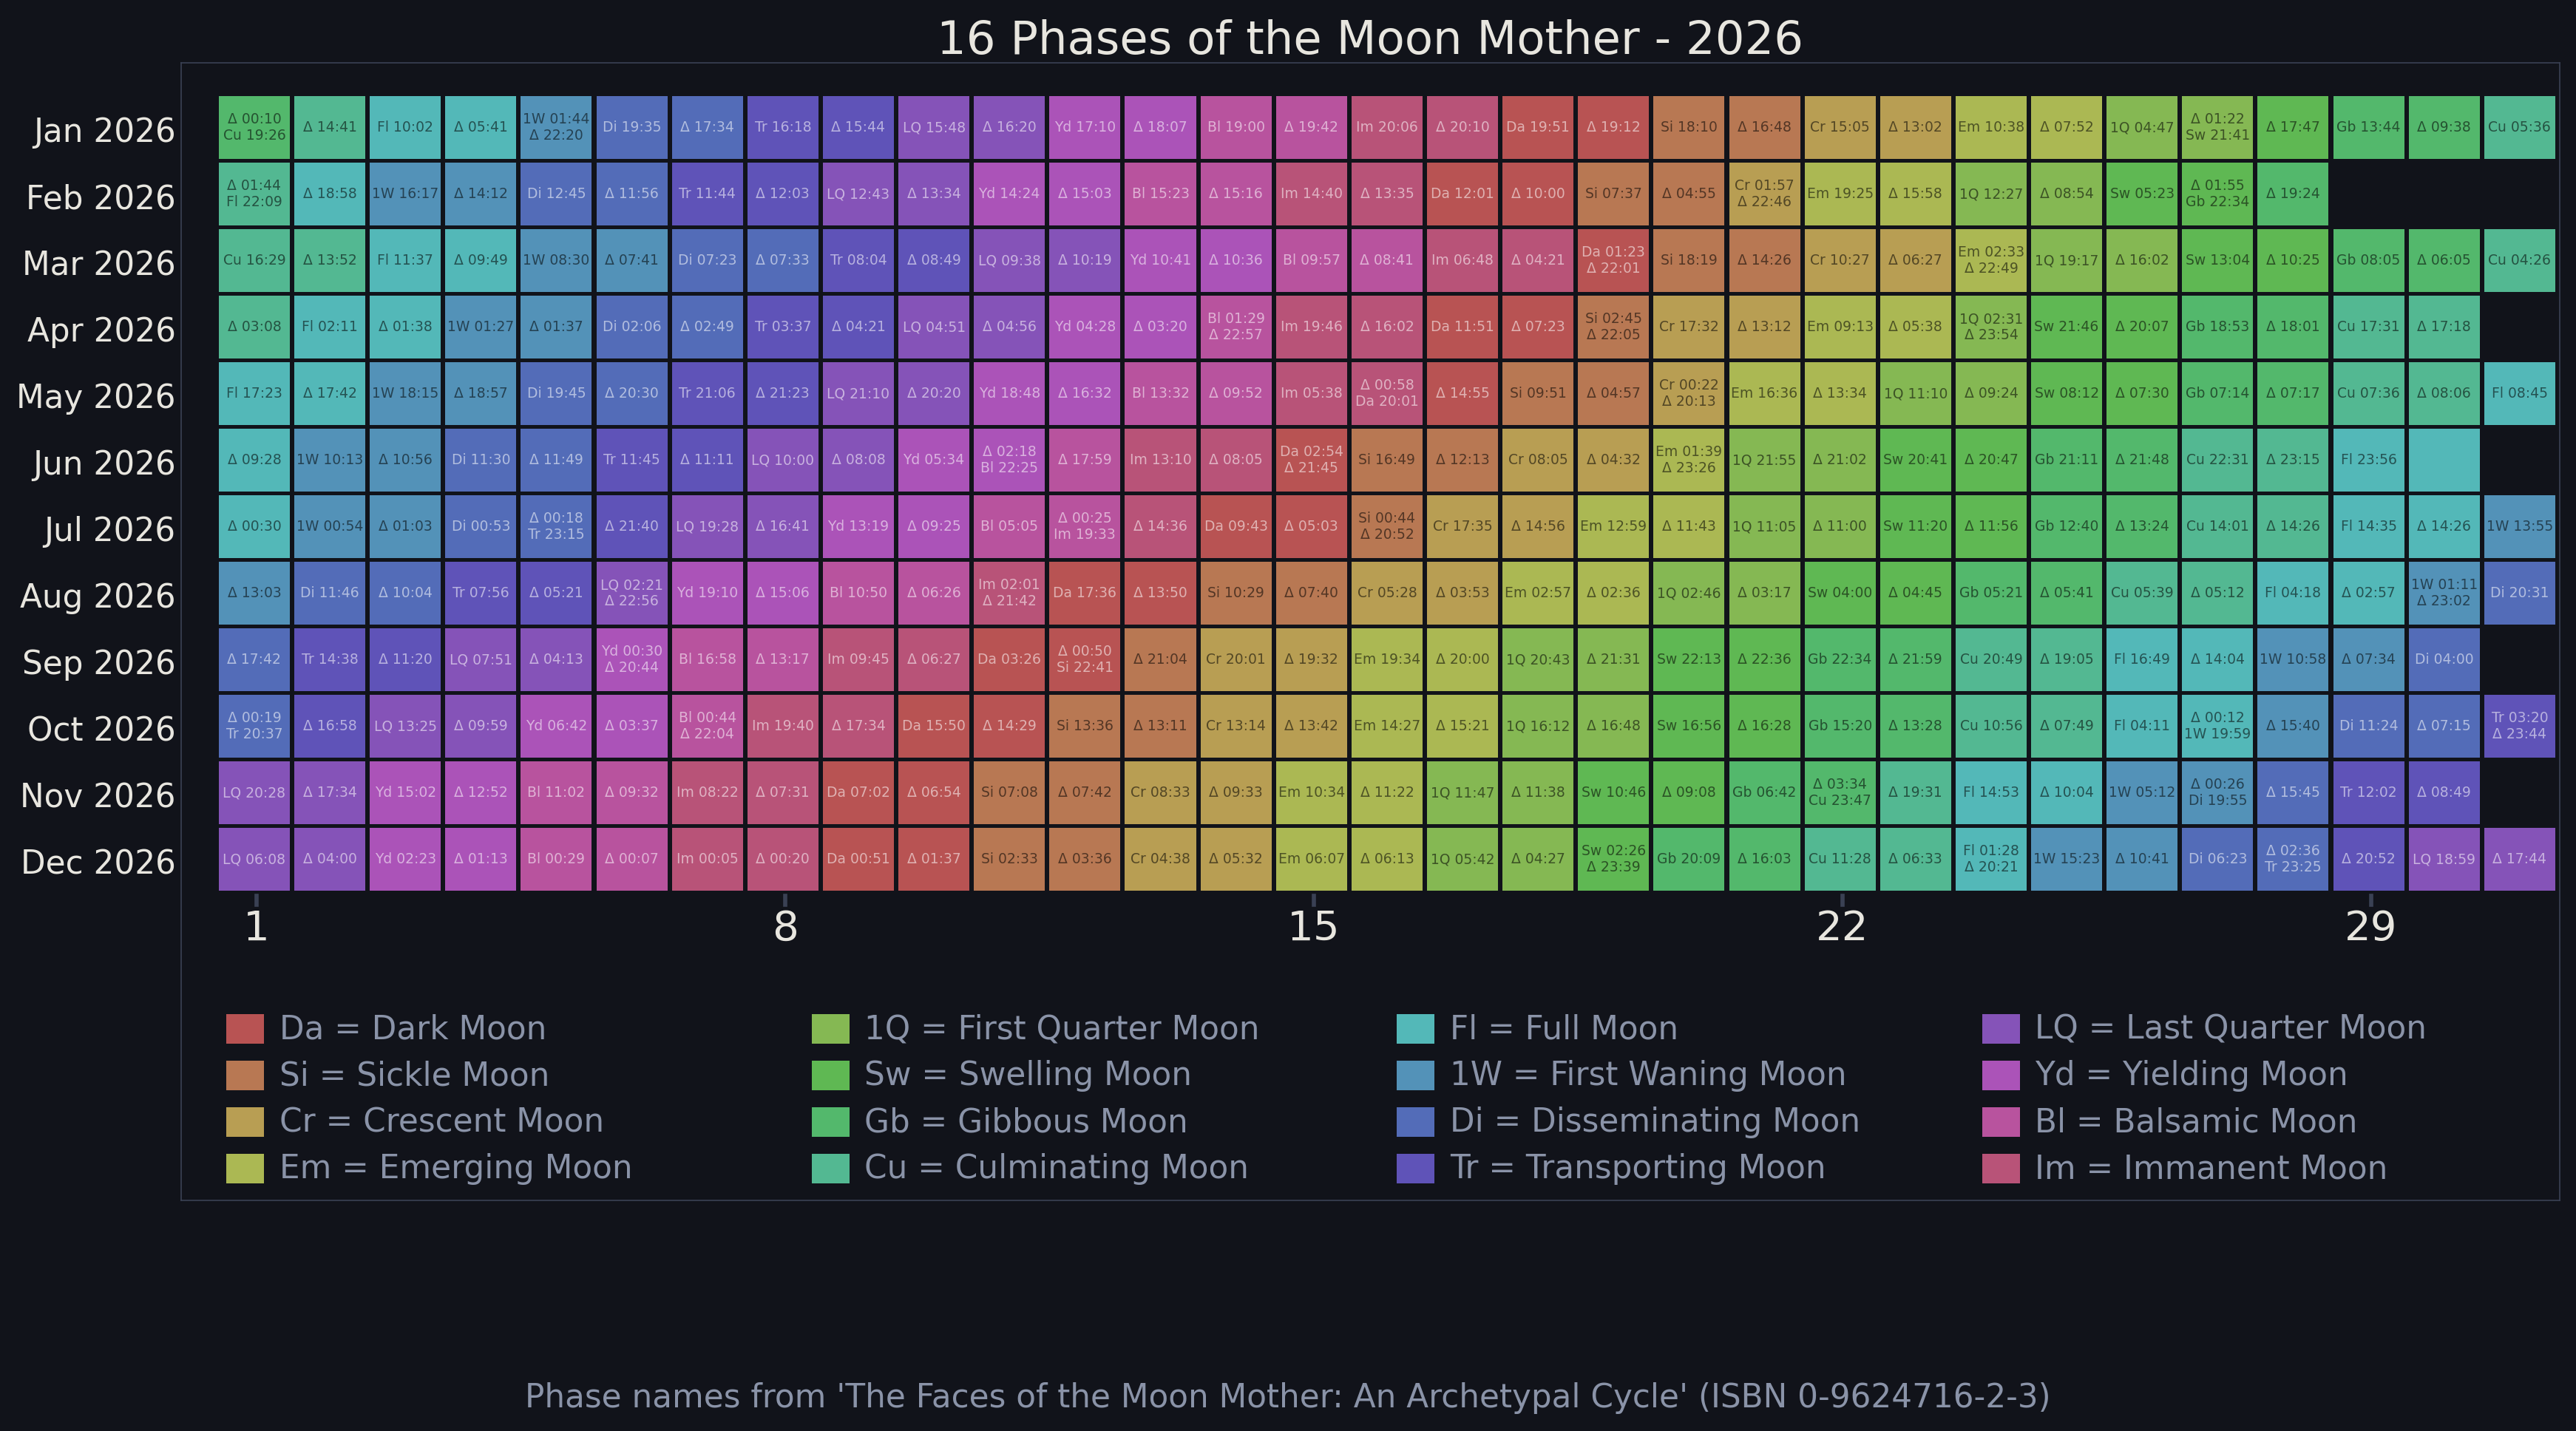
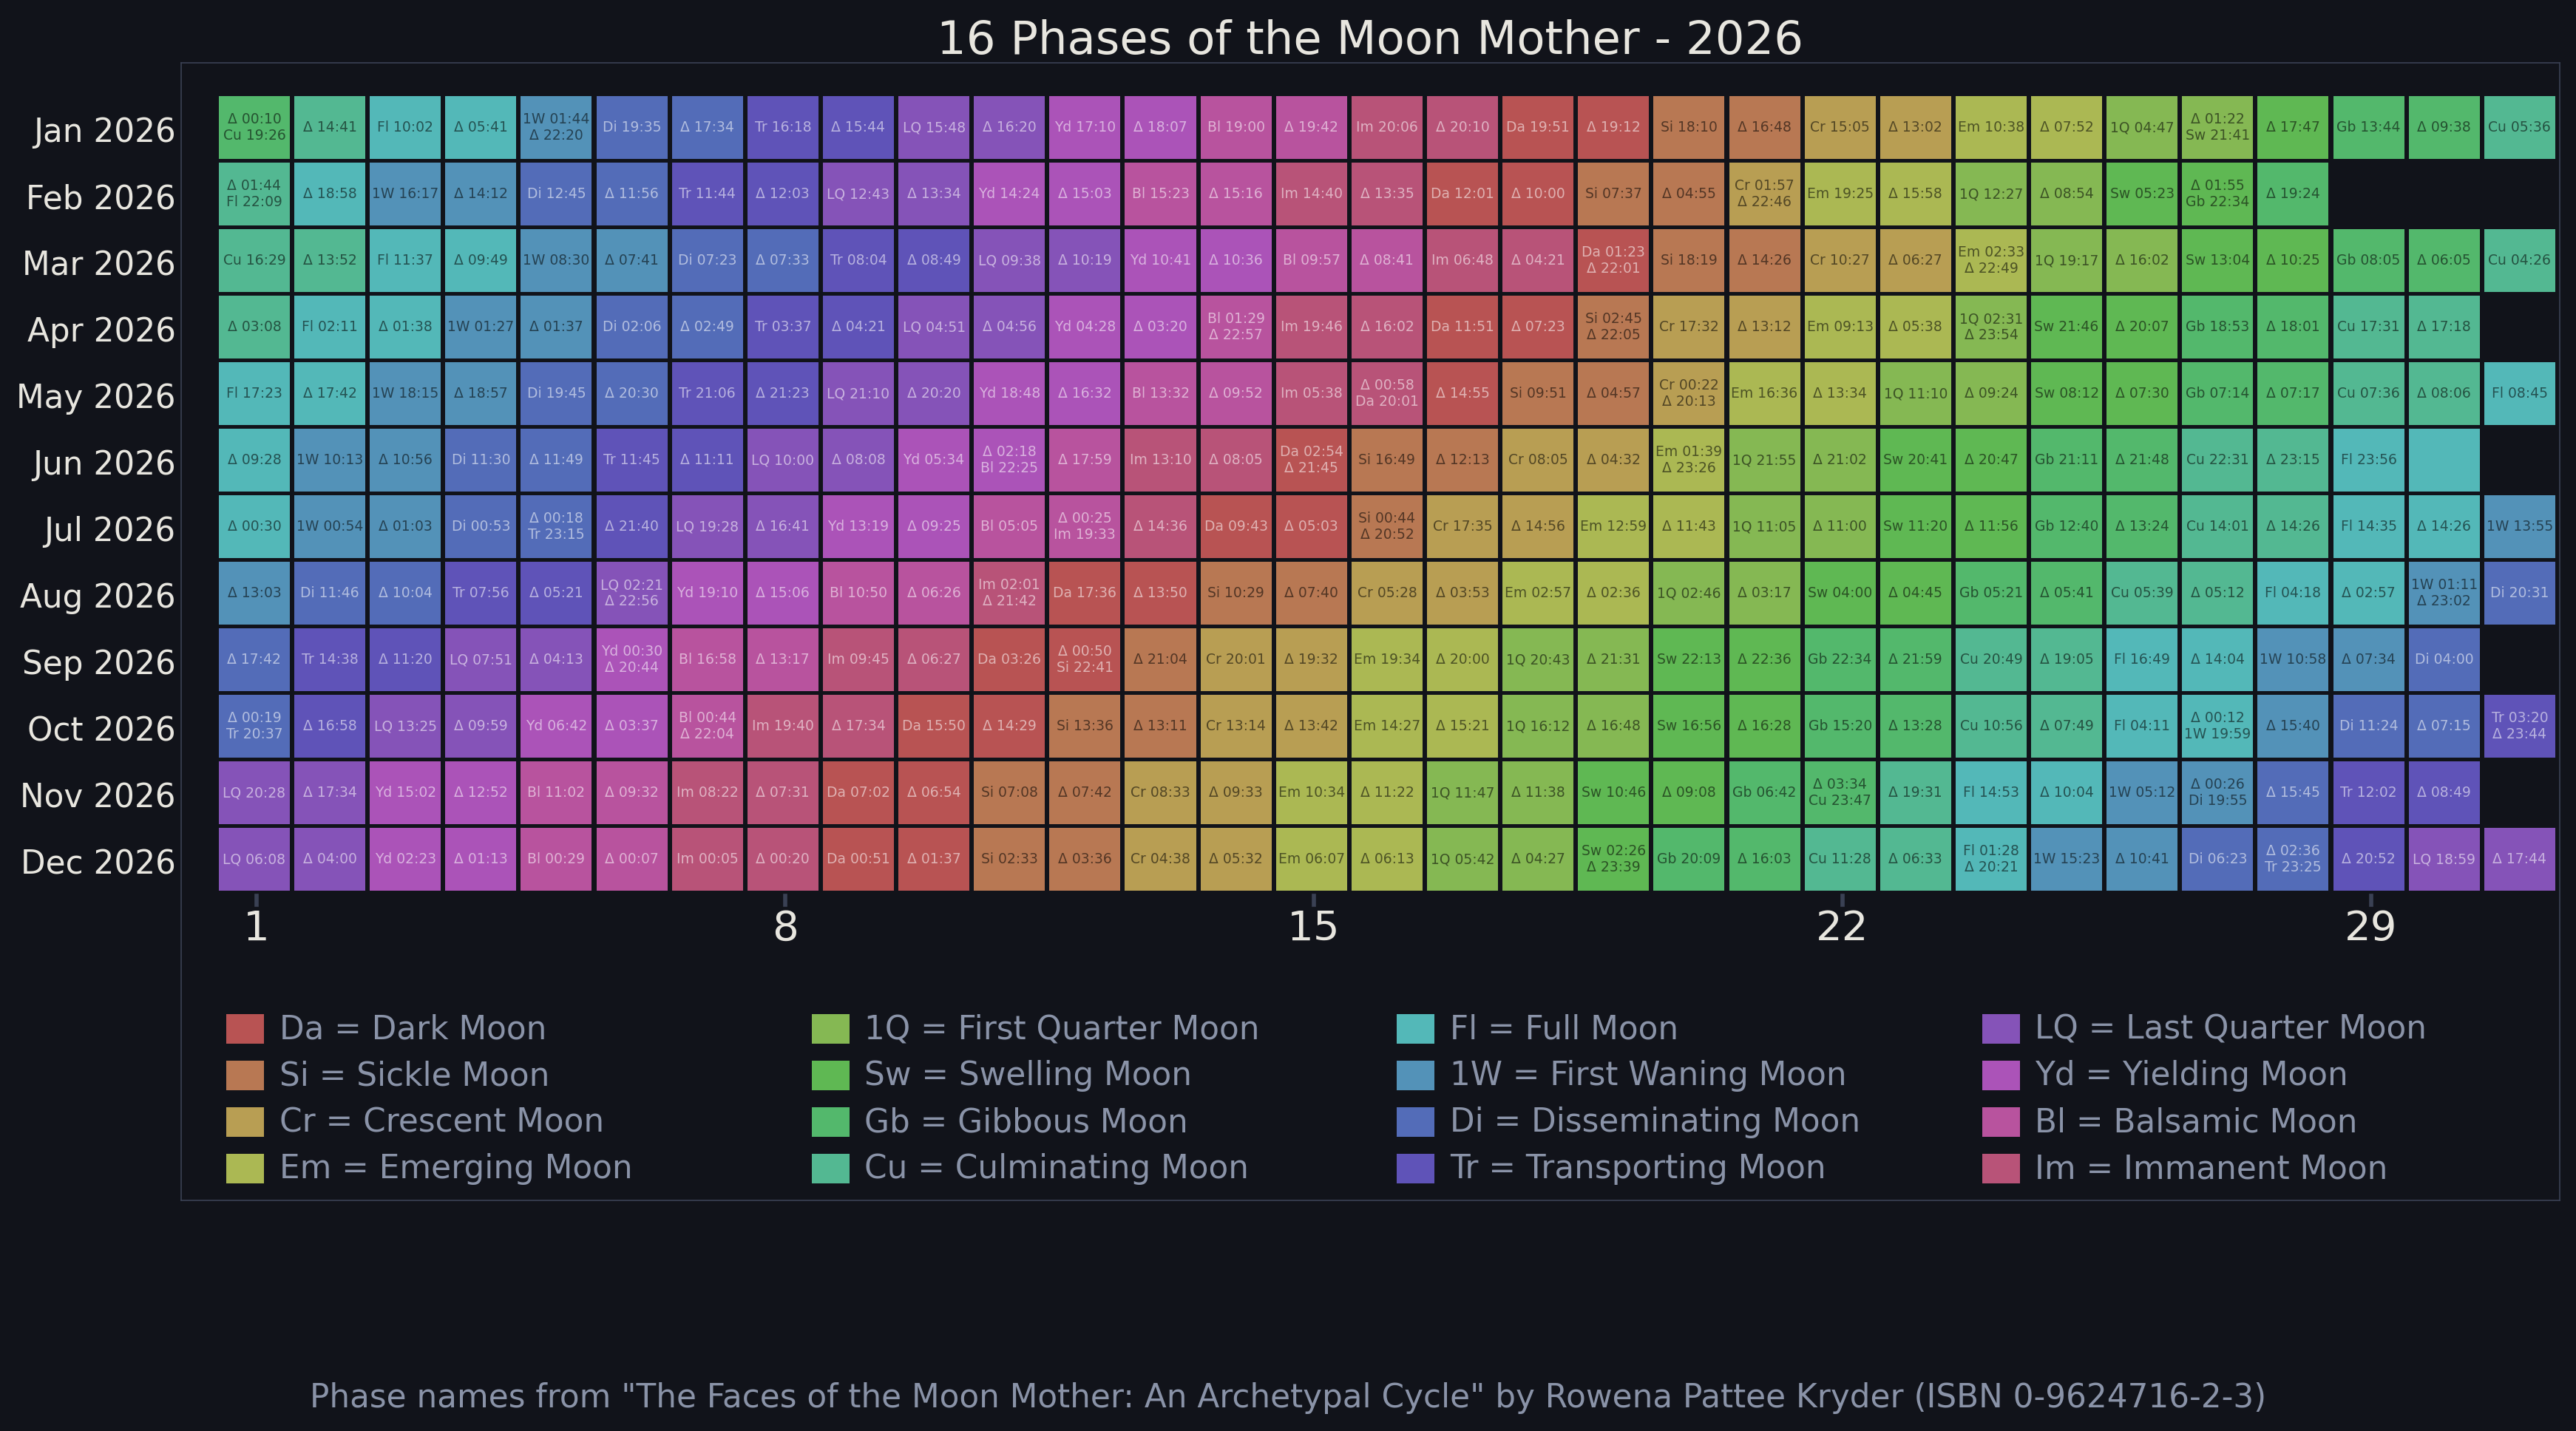
docs(samples): footer with full citation + author on Moon-Mother showcase
Re-render the cell-times Moon-Mother heatmap with the footer crediting the author
(Rowena Pattee Kryder) and the book title in quotes. Styled (italic) text for the
title/footer is tracked separately in #19.

Changed region(s): [[0.434, 0.9607, 0.868, 0.9917], [0.124, 0.9607, 0.403, 0.9917]]

diff --git a/samples/README.md b/samples/README.md
@@ -191,7 +191,7 @@ moonphase --start 2026-01-01T00:00Z --end 2026-12-31T23:00Z --divisions 16 \
           --transitions --format heatmap --calendar gregorian --tint index --cell-times \
           --labels @examples/moon-mother-16.csv \
           --title "16 Phases of the Moon Mother - 2026" \
-          --footer "Phase names from 'The Faces of the Moon Mother: An Archetypal Cycle' (ISBN 0-9624716-2-3)" \
+          --footer 'Phase names from "The Faces of the Moon Mother: An Archetypal Cycle" by Rowena Pattee Kryder (ISBN 0-9624716-2-3)' \
           --out samples/heatmap-moon-mother-cell-times-2026-16div.png
 ```
 